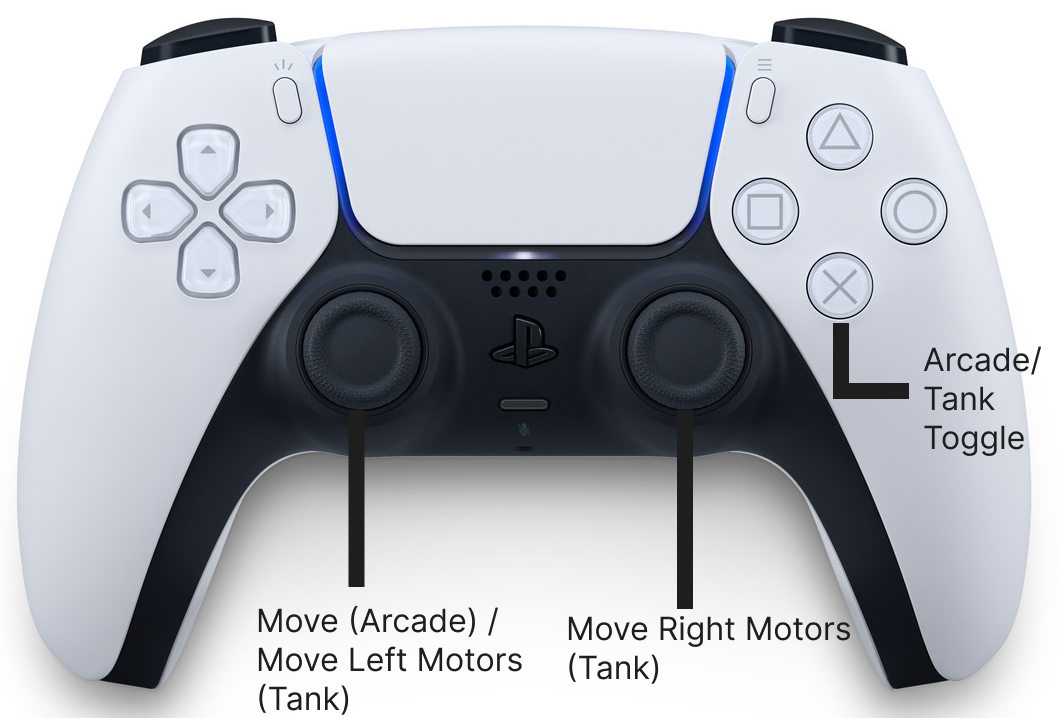
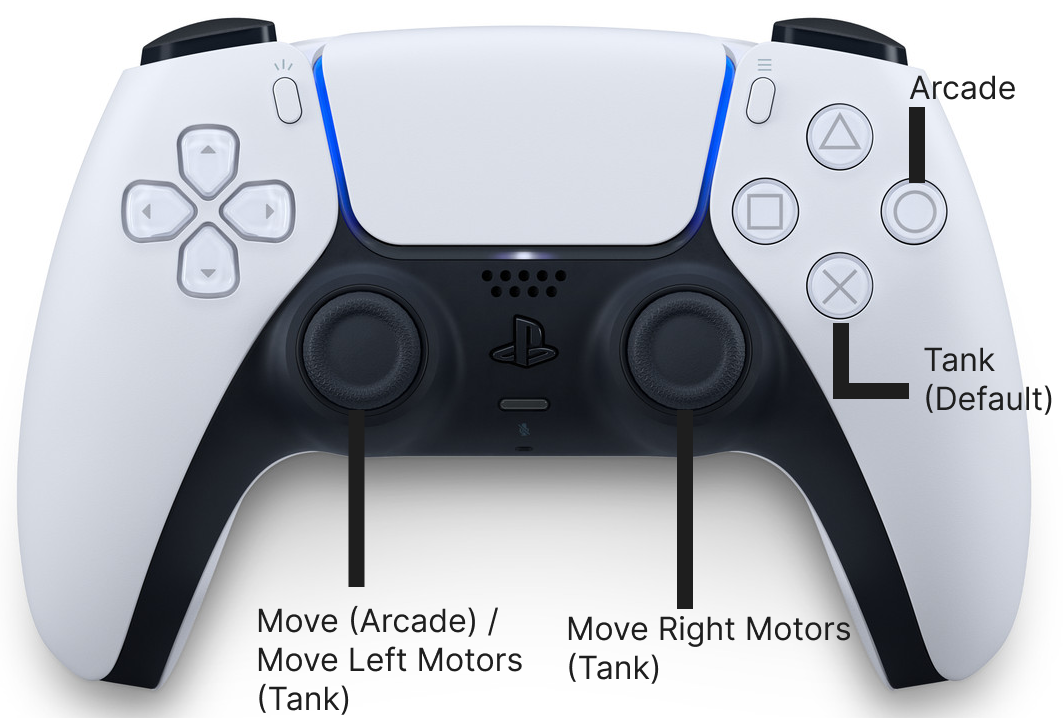
added new tank+arcade methods, new PS5 mapping

Changed region(s): [[0.8692, 0.4903, 0.9934, 0.6435], [0.8382, 0.0919, 0.9624, 0.2758]]

diff --git a/src/main/java/frc/robot/RobotContainer.java b/src/main/java/frc/robot/RobotContainer.java
@@ -9,11 +9,12 @@ import frc.robot.Constants.OperatorConstants;
 import frc.robot.commands.Autos;
 
 //  Drive Subsystem
-import frc.robot.commands.DefaultDriveCommand;
+import frc.robot.commands.TankDriveCommand;
+import frc.robot.commands.ArcadeDriveCommand;
 import frc.robot.subsystems.DriveSubsystem;
 
 //  Arm Subsystem
-import frc.robot.commands.DefaultArmCommand;
+import frc.robot.commands.MoveArmCommand;
 import frc.robot.commands.CloseArmCommand;
 import frc.robot.commands.OpenArmCommand;
 import frc.robot.commands.StopArmCommand;
@@ -52,6 +53,8 @@ public class RobotContainer {
     private static CommandPS4Controller operator;
 
     // Triggers
+    private Trigger crossTankTrigger;
+    private Trigger circleArcadeTrigger;
     private Trigger crossTrigger;
     private Trigger squareTrigger;
     private Trigger circleTrigger;
@@ -64,6 +67,9 @@ public class RobotContainer {
       operator = new CommandPS4Controller(OperatorConstants.OPERATORCONTROLLERPORT);
 
       //Triggers
+      crossTankTrigger = driver.cross();
+      circleArcadeTrigger = driver.circle();
+
       crossTrigger = operator.cross();
       squareTrigger = operator.square();
       circleTrigger = operator.circle();
@@ -73,7 +79,8 @@ public class RobotContainer {
       configureBindings();
   
       // The base command that is always running is the moving command
-      CommandScheduler.getInstance().setDefaultCommand(m_driveSubsystem, new DefaultDriveCommand(m_driveSubsystem));
+      // Default is Tank
+      CommandScheduler.getInstance().setDefaultCommand(m_driveSubsystem, new TankDriveCommand(m_driveSubsystem));
     }
   
     /**
@@ -86,23 +93,20 @@ public class RobotContainer {
      * joysticks}.
      */
     private void configureBindings() {
-      // Schedule `ExampleCommand` when `exampleCondition` changes to `true`
-      new Trigger(m_driveSubsystem::exampleCondition)
-          .onTrue(new DefaultDriveCommand(m_driveSubsystem));
+      // Button bindings for commands
 
+      crossTankTrigger.onTrue(new TankDriveCommand(m_driveSubsystem));
+      circleArcadeTrigger.onTrue(new ArcadeDriveCommand(m_driveSubsystem));
+      
       crossTrigger.whileTrue(new OpenArmCommand(m_armSubsystem));
       crossTrigger.whileFalse(new CloseArmCommand(m_armSubsystem));
 
-      squareTrigger.whileTrue(new DefaultArmCommand(m_armSubsystem));
+      squareTrigger.whileTrue(new MoveArmCommand(m_armSubsystem));
       squareTrigger.whileFalse(new StopArmCommand(m_armSubsystem));
 
       triangleTrigger.whileTrue(new DefaultBallCommand(m_ballSubsystem));
 
       circleTrigger.whileTrue(new StopBallCommand(m_ballSubsystem));
-  
-      // Schedule `exampleMethodCommand` when the Xbox controller's B button is pressed,
-      // cancelling on release.
-      //m_driverController.b().whileTrue(m_exampleSubsystem.exampleMethodCommand());
     }
   
     // This returns the driver controller objects, allowing our commands to use them

diff --git a/src/main/java/frc/robot/commands/TankDriveCommand.java b/src/main/java/frc/robot/commands/TankDriveCommand.java
@@ -6,7 +6,7 @@ import edu.wpi.first.wpilibj2.command.button.CommandPS5Controller;
 import frc.robot.RobotContainer;
 
 //Default Drive Command via PlayStation 5 Controller
-public class DefaultDriveCommand extends Command {
+public class TankDriveCommand extends Command {
   // This references the DriveSubsystem.java to control the motors assigned
   private final DriveSubsystem m_subsystem;
 
@@ -14,9 +14,7 @@ public class DefaultDriveCommand extends Command {
   // This is what is used to get the values of speed
   private final CommandPS5Controller m_controller = RobotContainer.getDriverController();
 
-  private boolean modeSwitch = false;
-
-  public DefaultDriveCommand(DriveSubsystem subsystem) {
+  public TankDriveCommand(DriveSubsystem subsystem) {
     m_subsystem = subsystem;
     addRequirements(m_subsystem);
   }
@@ -29,24 +27,8 @@ public class DefaultDriveCommand extends Command {
   // Called every time the scheduler runs while the command is scheduled.
   @Override
   public void execute() {
-    // Check the state for use of modeSwitch
-    if (m_controller.cross().getAsBoolean()) {
-      modeSwitch = !modeSwitch;
-
-      // Reset all motors
-      m_subsystem.setLeftSpeed(0);
-      m_subsystem.setRightSpeed(0);
-  
-    }
-
-    // Once we checked the state, we now move robot based on it
-    if (!modeSwitch) {
       m_subsystem.setLeftSpeed(-m_controller.getLeftY());
       m_subsystem.setRightSpeed(m_controller.getRightY());
-    } else {
-      m_subsystem.setAcceleratingLeftMotors(-1 * (m_controller.getLeftY() + m_controller.getLeftX()));
-      m_subsystem.setAcceleratingRightMotors(-1 * (m_controller.getLeftY() - m_controller.getLeftX()));
-    }
   }
 
   // Called once finished

diff --git a/src/main/java/frc/robot/commands/ArcadeDriveCommand.java b/src/main/java/frc/robot/commands/ArcadeDriveCommand.java
@@ -1,0 +1,44 @@
+package frc.robot.commands;
+
+import frc.robot.subsystems.DriveSubsystem;
+import edu.wpi.first.wpilibj2.command.Command;
+import edu.wpi.first.wpilibj2.command.button.CommandPS5Controller;
+import frc.robot.RobotContainer;
+
+//Arcade Drive Command via PlayStation 5 Controller
+public class ArcadeDriveCommand extends Command {
+  // This references the DriveSubsystem.java to control the motors assigned
+  private final DriveSubsystem m_subsystem;
+
+  // Reference the controller in the RobotContainer.java file
+  // This is what is used to get the values of speed
+  private final CommandPS5Controller m_controller = RobotContainer.getDriverController();
+
+  public ArcadeDriveCommand(DriveSubsystem subsystem) {
+    m_subsystem = subsystem;
+    addRequirements(m_subsystem);
+  }
+
+  // Called when the command is initially scheduled.
+  @Override
+  public void initialize() {
+  }
+
+  // Called every time the scheduler runs while the command is scheduled.
+  @Override
+  public void execute() {
+      m_subsystem.setAcceleratingLeftMotors(-1 * (m_controller.getLeftY() + m_controller.getLeftX()));
+      m_subsystem.setAcceleratingRightMotors(-1 * (m_controller.getLeftY() - m_controller.getLeftX()));
+  }
+
+  // Called once finished
+  @Override
+  public void end(boolean interrupted) {
+  }
+
+  // Returns true when the command should end.
+  @Override
+  public boolean isFinished() {
+    return false;
+  }
+}

diff --git a/src/main/java/frc/robot/commands/MoveArmCommand.java b/src/main/java/frc/robot/commands/MoveArmCommand.java
@@ -6,7 +6,7 @@ import edu.wpi.first.wpilibj2.command.button.CommandPS4Controller;
 import frc.robot.RobotContainer;
 
 // Default Arm Command, goes up and down, coral pickup and dropoff in a different func
-public class DefaultArmCommand extends Command{
+public class MoveArmCommand extends Command{
     @SuppressWarnings({"PMD.UnusedPrivateField", "PMD.SingularField"})
 
     // Variables
@@ -14,7 +14,7 @@ public class DefaultArmCommand extends Command{
     private final CommandPS4Controller m_controller = RobotContainer.getOperatorController();
 
 
-    public DefaultArmCommand(ArmSubsystem subsystem) {
+    public MoveArmCommand(ArmSubsystem subsystem) {
         m_subsystem = subsystem;
         addRequirements(m_subsystem);
     }

diff --git a/src/main/java/frc/robot/commands/StopArmCommand.java b/src/main/java/frc/robot/commands/StopArmCommand.java
@@ -2,8 +2,6 @@ package frc.robot.commands;
 
 import frc.robot.subsystems.ArmSubsystem;
 import edu.wpi.first.wpilibj2.command.Command;
-import edu.wpi.first.wpilibj2.command.button.CommandPS4Controller;
-import frc.robot.RobotContainer;
 
 // Default Arm Command, goes up and down, coral pickup and dropoff in a different func
 public class StopArmCommand extends Command{
@@ -11,7 +9,6 @@ public class StopArmCommand extends Command{
 
     // Variables
     private final ArmSubsystem m_subsystem;
-    private final CommandPS4Controller m_controller = RobotContainer.getOperatorController();
 
 
     public StopArmCommand(ArmSubsystem subsystem) {

diff --git a/src/main/java/frc/robot/subsystems/ArmSubsystem.java b/src/main/java/frc/robot/subsystems/ArmSubsystem.java
@@ -1,11 +1,7 @@
 package frc.robot.subsystems;
 
-import edu.wpi.first.math.MathUtil;
-import edu.wpi.first.wpilibj2.command.Command;
 import edu.wpi.first.wpilibj2.command.SubsystemBase;
 import edu.wpi.first.wpilibj.Solenoid;
-//import edu.wpi.first.wpilibj.DigitalInput;
-import edu.wpi.first.wpilibj.DoubleSolenoid;
 import edu.wpi.first.wpilibj.PneumaticsModuleType;
 
 import com.ctre.phoenix.motorcontrol.can.WPI_VictorSPX;
